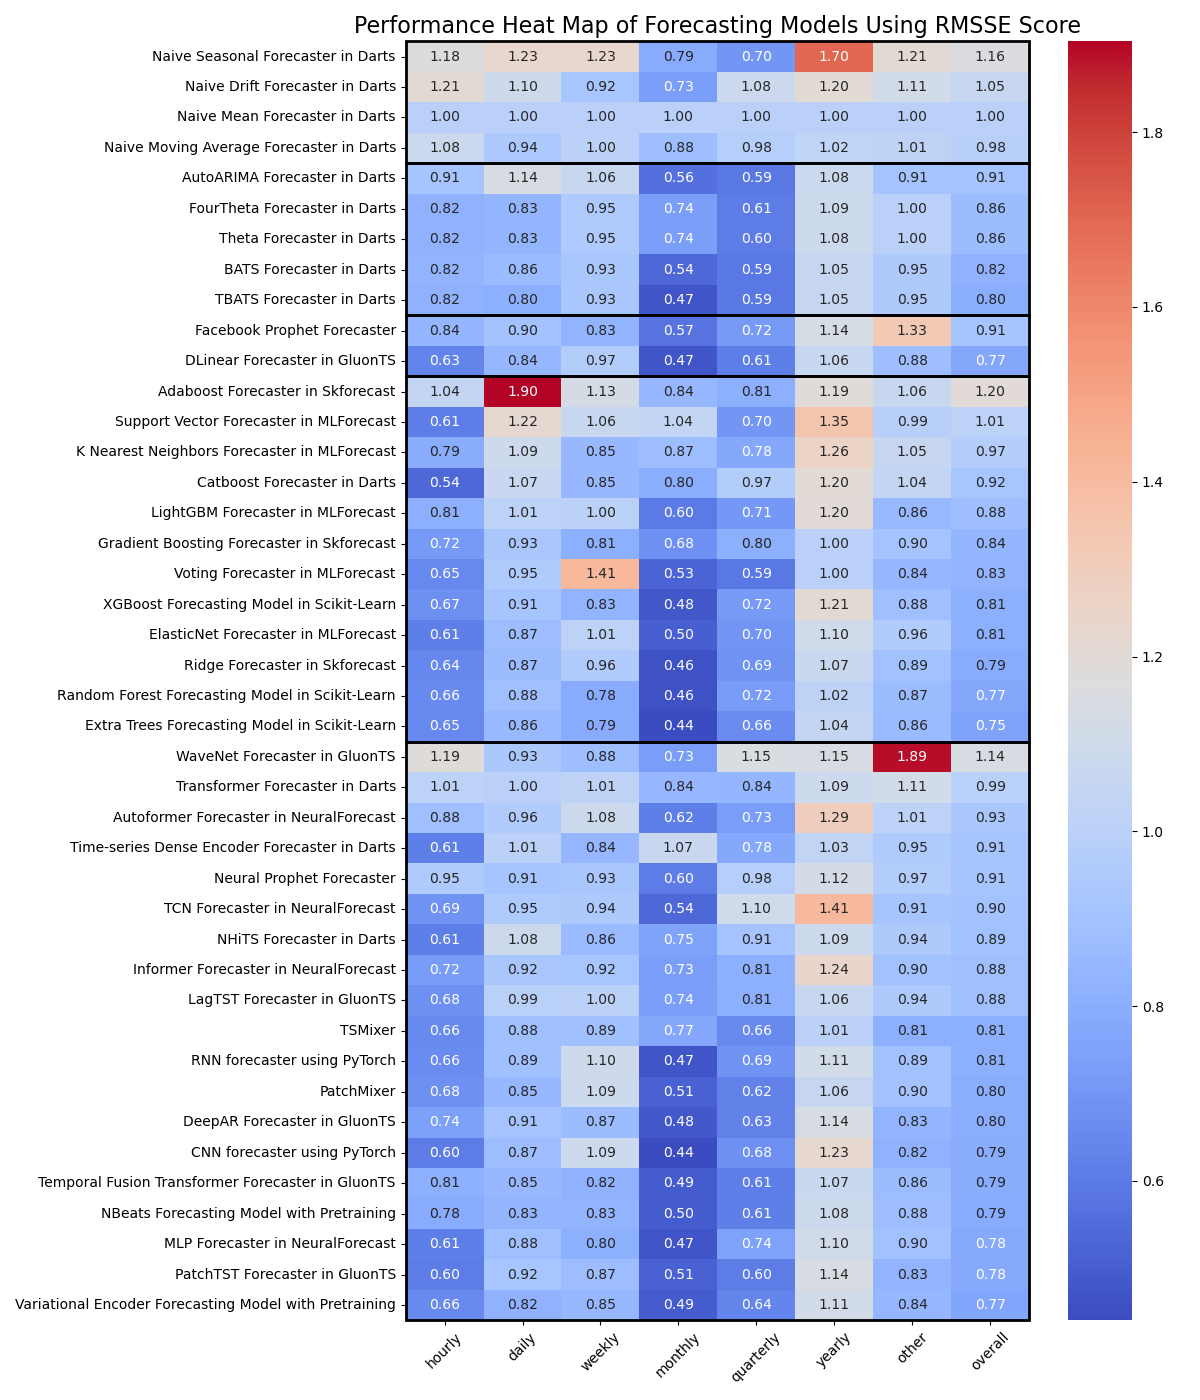
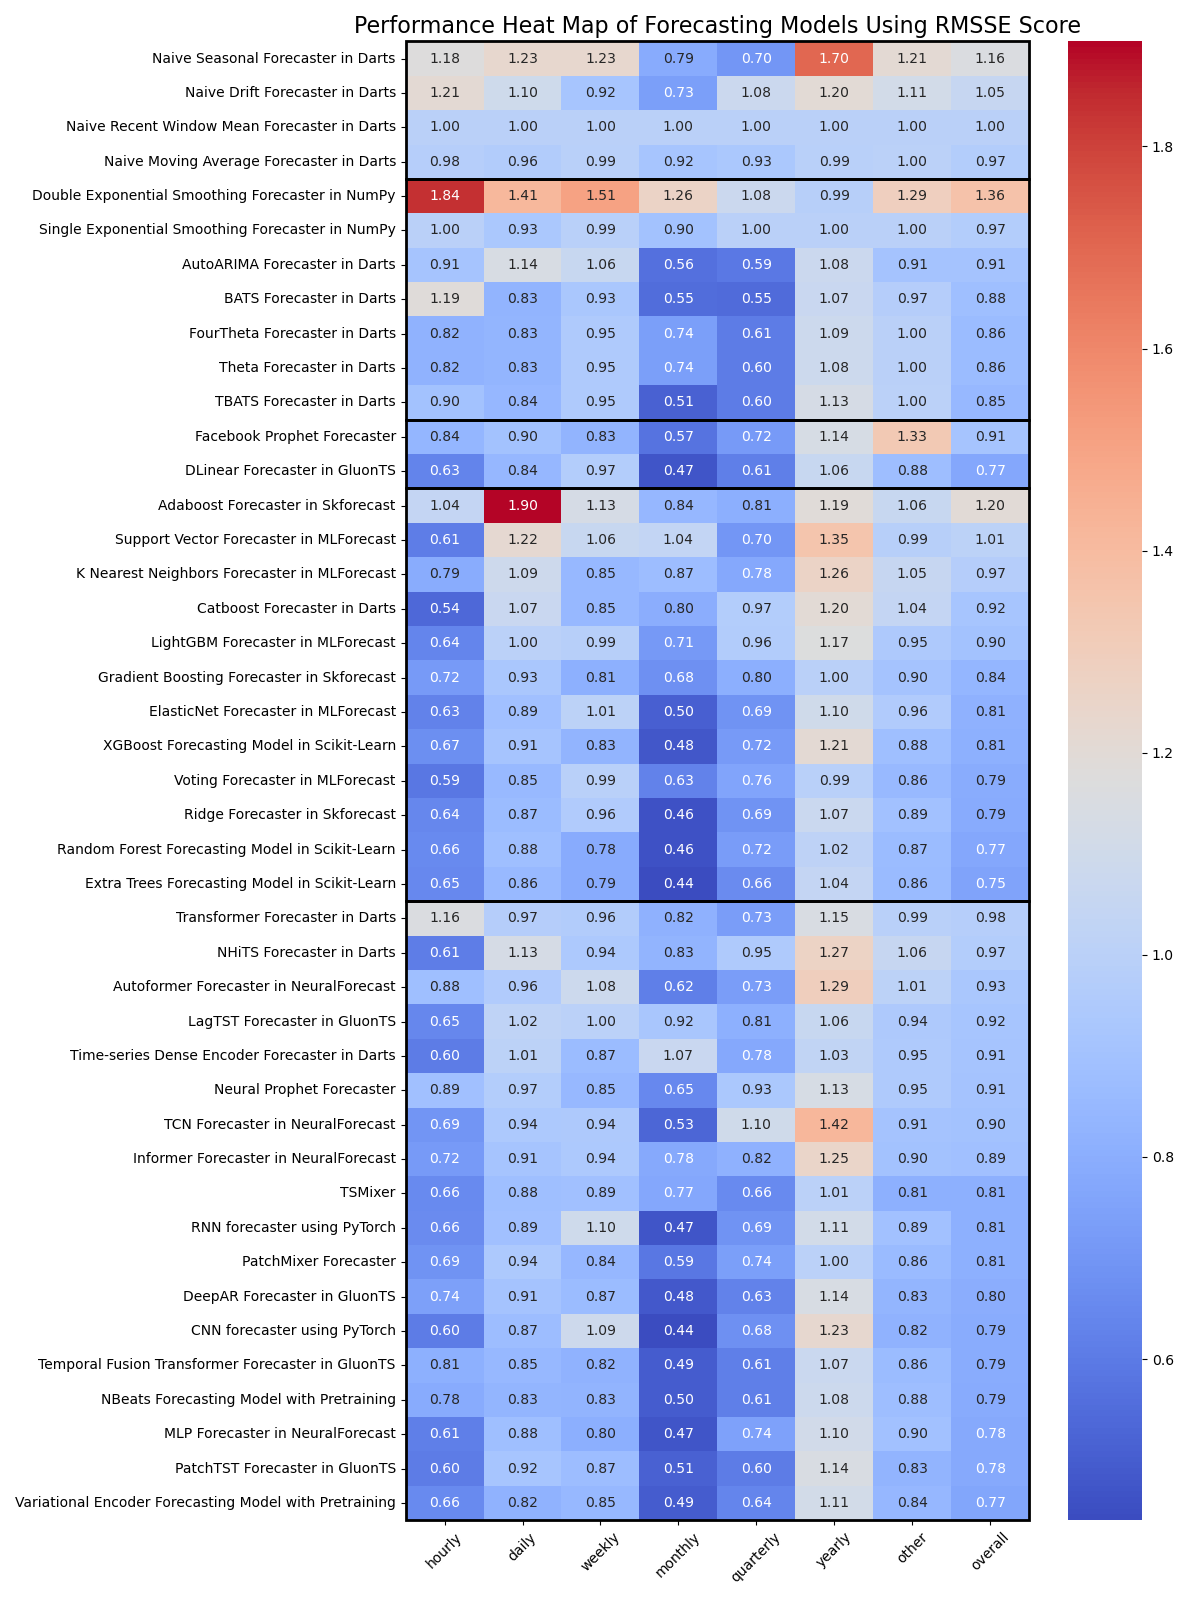
updated benchmark on 02-24-2024

Changed region(s): [[0.0, 0.0, 0.9867, 0.9829]]

diff --git a/src/create-chart.py b/src/create-chart.py
@@ -2,6 +2,7 @@ import pandas as pd
 import seaborn as sns
 import matplotlib.pyplot as plt
 import chardet
+import sys
 
 # Load the benchmarking results
 file_path = './../inputs/Forecasting results 20240221.csv'
@@ -13,14 +14,23 @@ with open(file_path, 'rb') as file:
 encoding = result['encoding']
 df = pd.read_csv(file_path, encoding=encoding)
 
+# Calculate start and end index for each group
+group_bounds = []
+for group_name, group_df in df.groupby('category'):
+    start_index = group_df.index.min()
+    end_index = group_df.index.max()
+    group_bounds.append((start_index, end_index))
+sorted_group_bounds = sorted(group_bounds, key=lambda x: x[0])
+
+
 # Set 'model_name' as the index to use it as row labels
-data_models_only_index = df.set_index('model_name')
+data_models_only_index = df.drop('category', axis=1).set_index('model_name')
 
 # Select only the numeric data for visualization
 numeric_data_models_only = data_models_only_index.select_dtypes(include='number')
 
 # Creating the heatmap
-plt.figure(figsize=(12, 14))
+plt.figure(figsize=(12, 16))
 ax = sns.heatmap(numeric_data_models_only, annot=True, fmt=".2f", cmap="coolwarm", cbar=True, 
                  vmin=numeric_data_models_only.min().min(), vmax=numeric_data_models_only.max().max())
 
@@ -31,15 +41,15 @@ plt.ylabel('')  # Remove the x-axis label
 plt.tight_layout()
 
 # Defining the boxes' start and end rows (Python uses 0-based indexing)
-boxes = [(0, 4), (4, 9), (9, 11), (11, 23), (23, 42)]
+
 
 # Adding borders around specified groups of models
-for start, end in boxes:
+for start, end in sorted_group_bounds:
     ax.add_patch(
         plt.Rectangle(
             (0, start), 
             numeric_data_models_only.shape[1],
-            end-start,
+            end-start+1,
             fill=False,
             edgecolor='black',
             lw=2,
